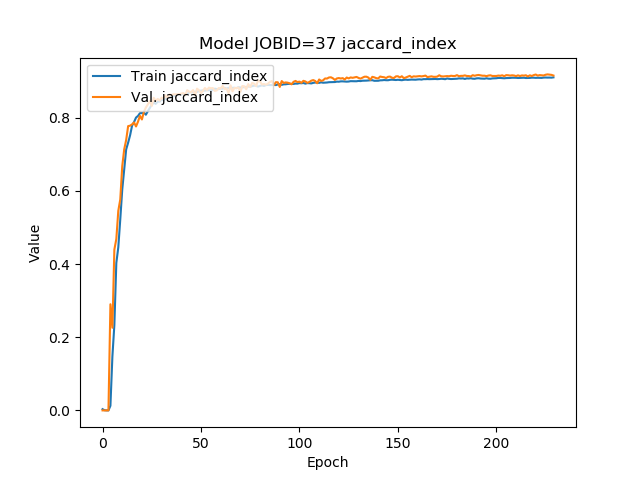
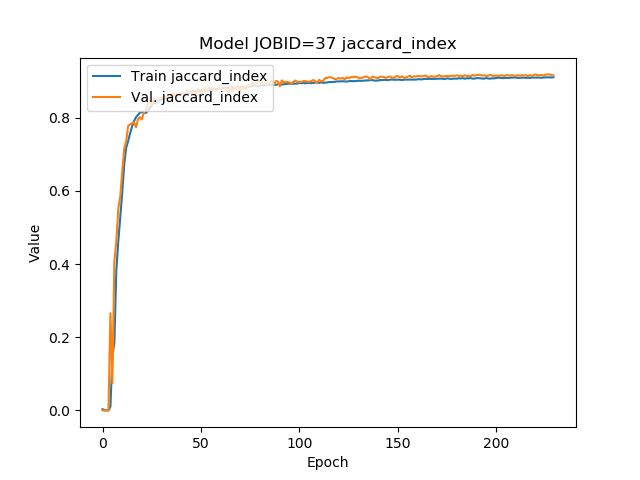
Minor fixes. Master thesis completed. Starting new experiments

diff --git a/FIBSEM_EPFL/scripts/order_by_id/script_id_37.py b/FIBSEM_EPFL/scripts/order_by_id/script_id_37.py
@@ -109,7 +109,7 @@ aug_examples = True
 keras_zoom = False
 
 # Load preoviously generated model weigths
-load_previous_weights = True
+load_previous_weights = False
 
 # General parameters
 batch_size_value = 1
@@ -348,14 +348,6 @@ v_num = int(original_test_shape[1] / bin_preds_test.shape[2]) \
         + (original_test_shape[1] % bin_preds_test.shape[2] > 0)
 
 # To calculate the jaccard (binarized)
-Print("original_test_shape: " + str(original_test_shape))
-Print("bin_preds_test.shape: " + str(bin_preds_test.shape))
-Print("original_test_shape[0]: " + str(original_test_shape[0]))
-Print("original_test_shape[1]: " + str(original_test_shape[1]))
-Print("bin_preds_test.shape[1]: " + str(bin_preds_test.shape[1]))
-Print("bin_preds_test.shape[2]: " + str(bin_preds_test.shape[2]))
-
-Print("h_num: " + str(h_num) + ", " + str(v_num))
 recons_preds_test = mix_data(bin_preds_test,
                              math.ceil(bin_preds_test.shape[0]/(h_num*v_num)),
                              out_shape=[h_num, v_num], grid=False)
@@ -393,9 +385,11 @@ if len(sys.argv) > 1 and test_id == "1":
 ####################
 
 if post_process == True and make_crops == True:
+
     Print("Post processing active . . .")
+
     X_test = mix_data(X_test, math.ceil(X_test.shape[0]/(h_num*v_num)),
-                  out_shape=[h_num, v_num], grid=False)
+                      out_shape=[h_num, v_num], grid=False)
 
     Y_test_smooth = np.zeros(X_test.shape, dtype=(np.uint8))
 
@@ -456,7 +450,7 @@ if load_previous_weights == False:
     # If we are running multiple tests store the results
     if len(sys.argv) > 1:
 
-        if post_process == True:
+        if post_process == True and make_crops == True:
             store_history(results, score, voc, det, time_callback, log_dir,
                           job_file, smooth_score=smooth_score, 
                           smooth_voc=smooth_voc, smooth_det=smooth_det)

diff --git a/FIBSEM_EPFL/scripts/script_37.py b/FIBSEM_EPFL/scripts/script_37.py
@@ -109,7 +109,7 @@ aug_examples = True
 keras_zoom = False
 
 # Load preoviously generated model weigths
-load_previous_weights = True
+load_previous_weights = False
 
 # General parameters
 batch_size_value = 1
@@ -385,9 +385,11 @@ if len(sys.argv) > 1 and test_id == "1":
 ####################
 
 if post_process == True and make_crops == True:
+
     Print("Post processing active . . .")
+
     X_test = mix_data(X_test, math.ceil(X_test.shape[0]/(h_num*v_num)),
-                  out_shape=[h_num, v_num], grid=False)
+                      out_shape=[h_num, v_num], grid=False)
 
     Y_test_smooth = np.zeros(X_test.shape, dtype=(np.uint8))
 
@@ -448,7 +450,7 @@ if load_previous_weights == False:
     # If we are running multiple tests store the results
     if len(sys.argv) > 1:
 
-        if post_process == True:
+        if post_process == True and make_crops == True:
             store_history(results, score, voc, det, time_callback, log_dir,
                           job_file, smooth_score=smooth_score, 
                           smooth_voc=smooth_voc, smooth_det=smooth_det)

diff --git a/FIBSEM_EPFL/scripts/general_script.py b/FIBSEM_EPFL/scripts/general_script.py
@@ -386,8 +386,9 @@ if len(sys.argv) > 1 and test_id == "1":
 
 if post_process == True and make_crops == True:
     Print("Post processing active . . .")
+
     X_test = mix_data(X_test, math.ceil(X_test.shape[0]/(h_num*v_num)),
-                  out_shape=[h_num, v_num], grid=False)
+                      out_shape=[h_num, v_num], grid=False)
 
     Y_test_smooth = np.zeros(X_test.shape, dtype=(np.uint8))
 
@@ -448,7 +449,7 @@ if load_previous_weights == False:
     # If we are running multiple tests store the results
     if len(sys.argv) > 1:
 
-        if post_process == True:
+        if post_process == True and make_crops == True:
             store_history(results, score, voc, det, time_callback, log_dir,
                           job_file, smooth_score=smooth_score, 
                           smooth_voc=smooth_voc, smooth_det=smooth_det)
